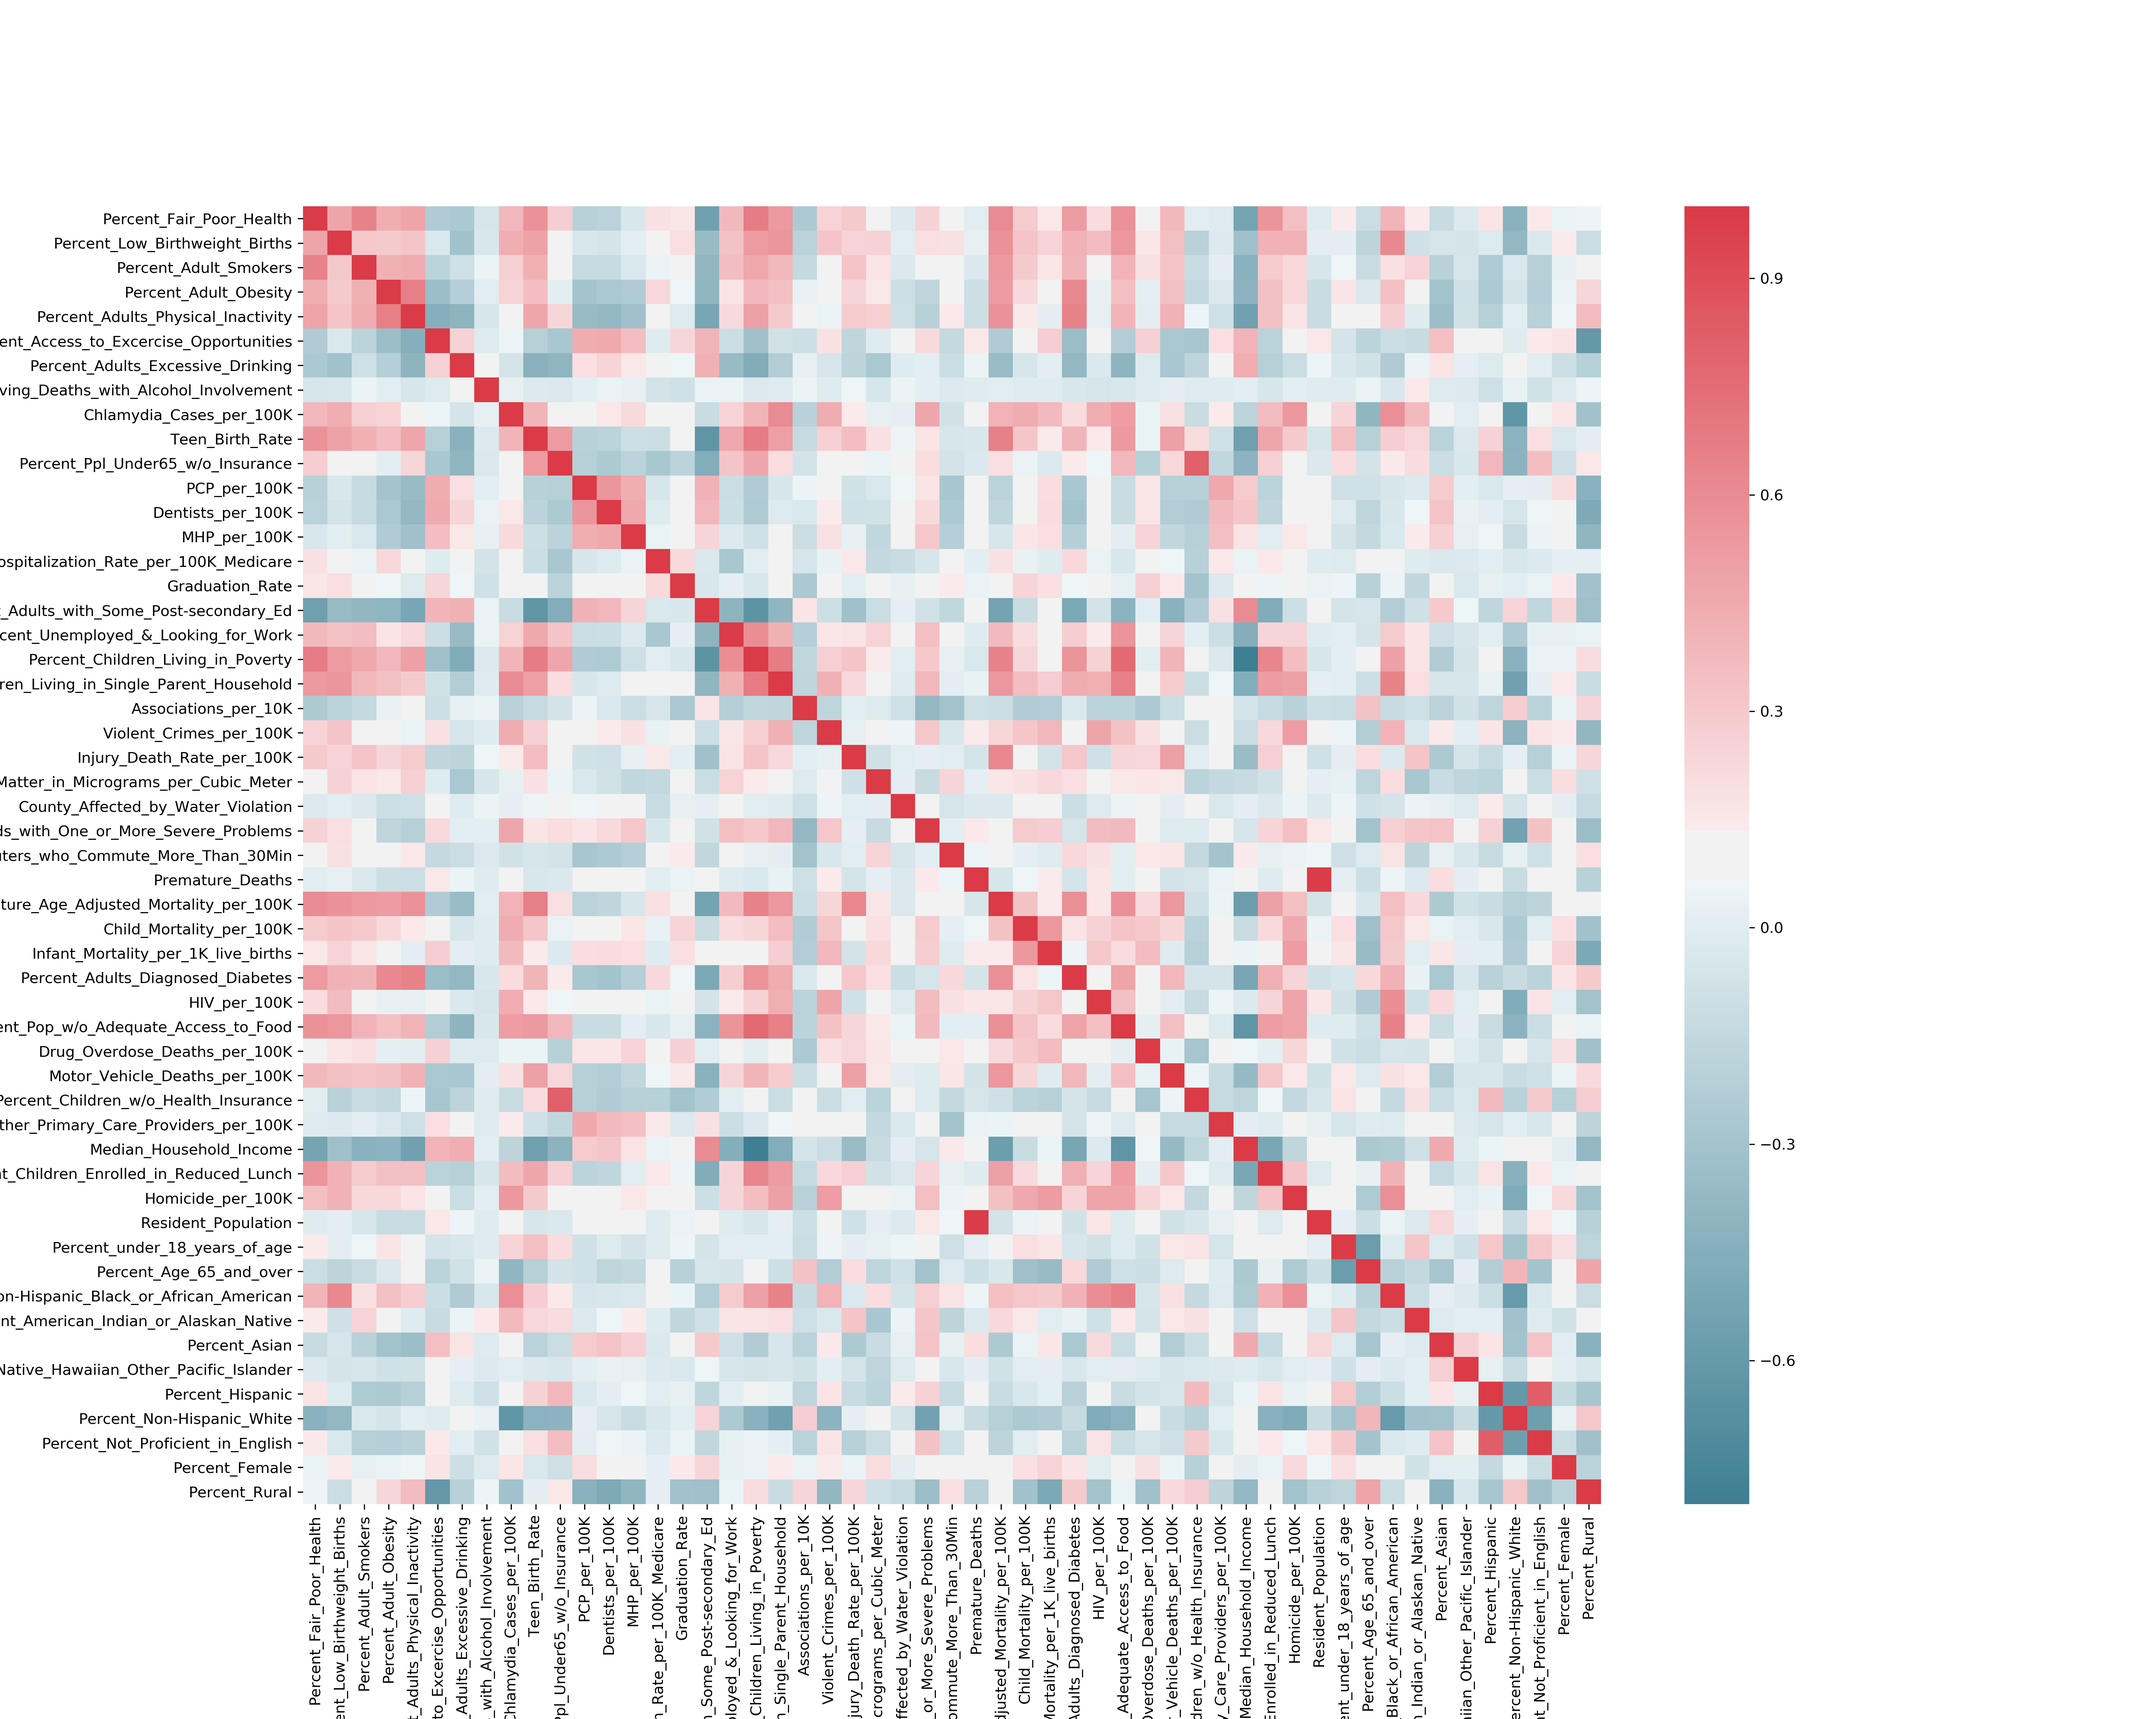
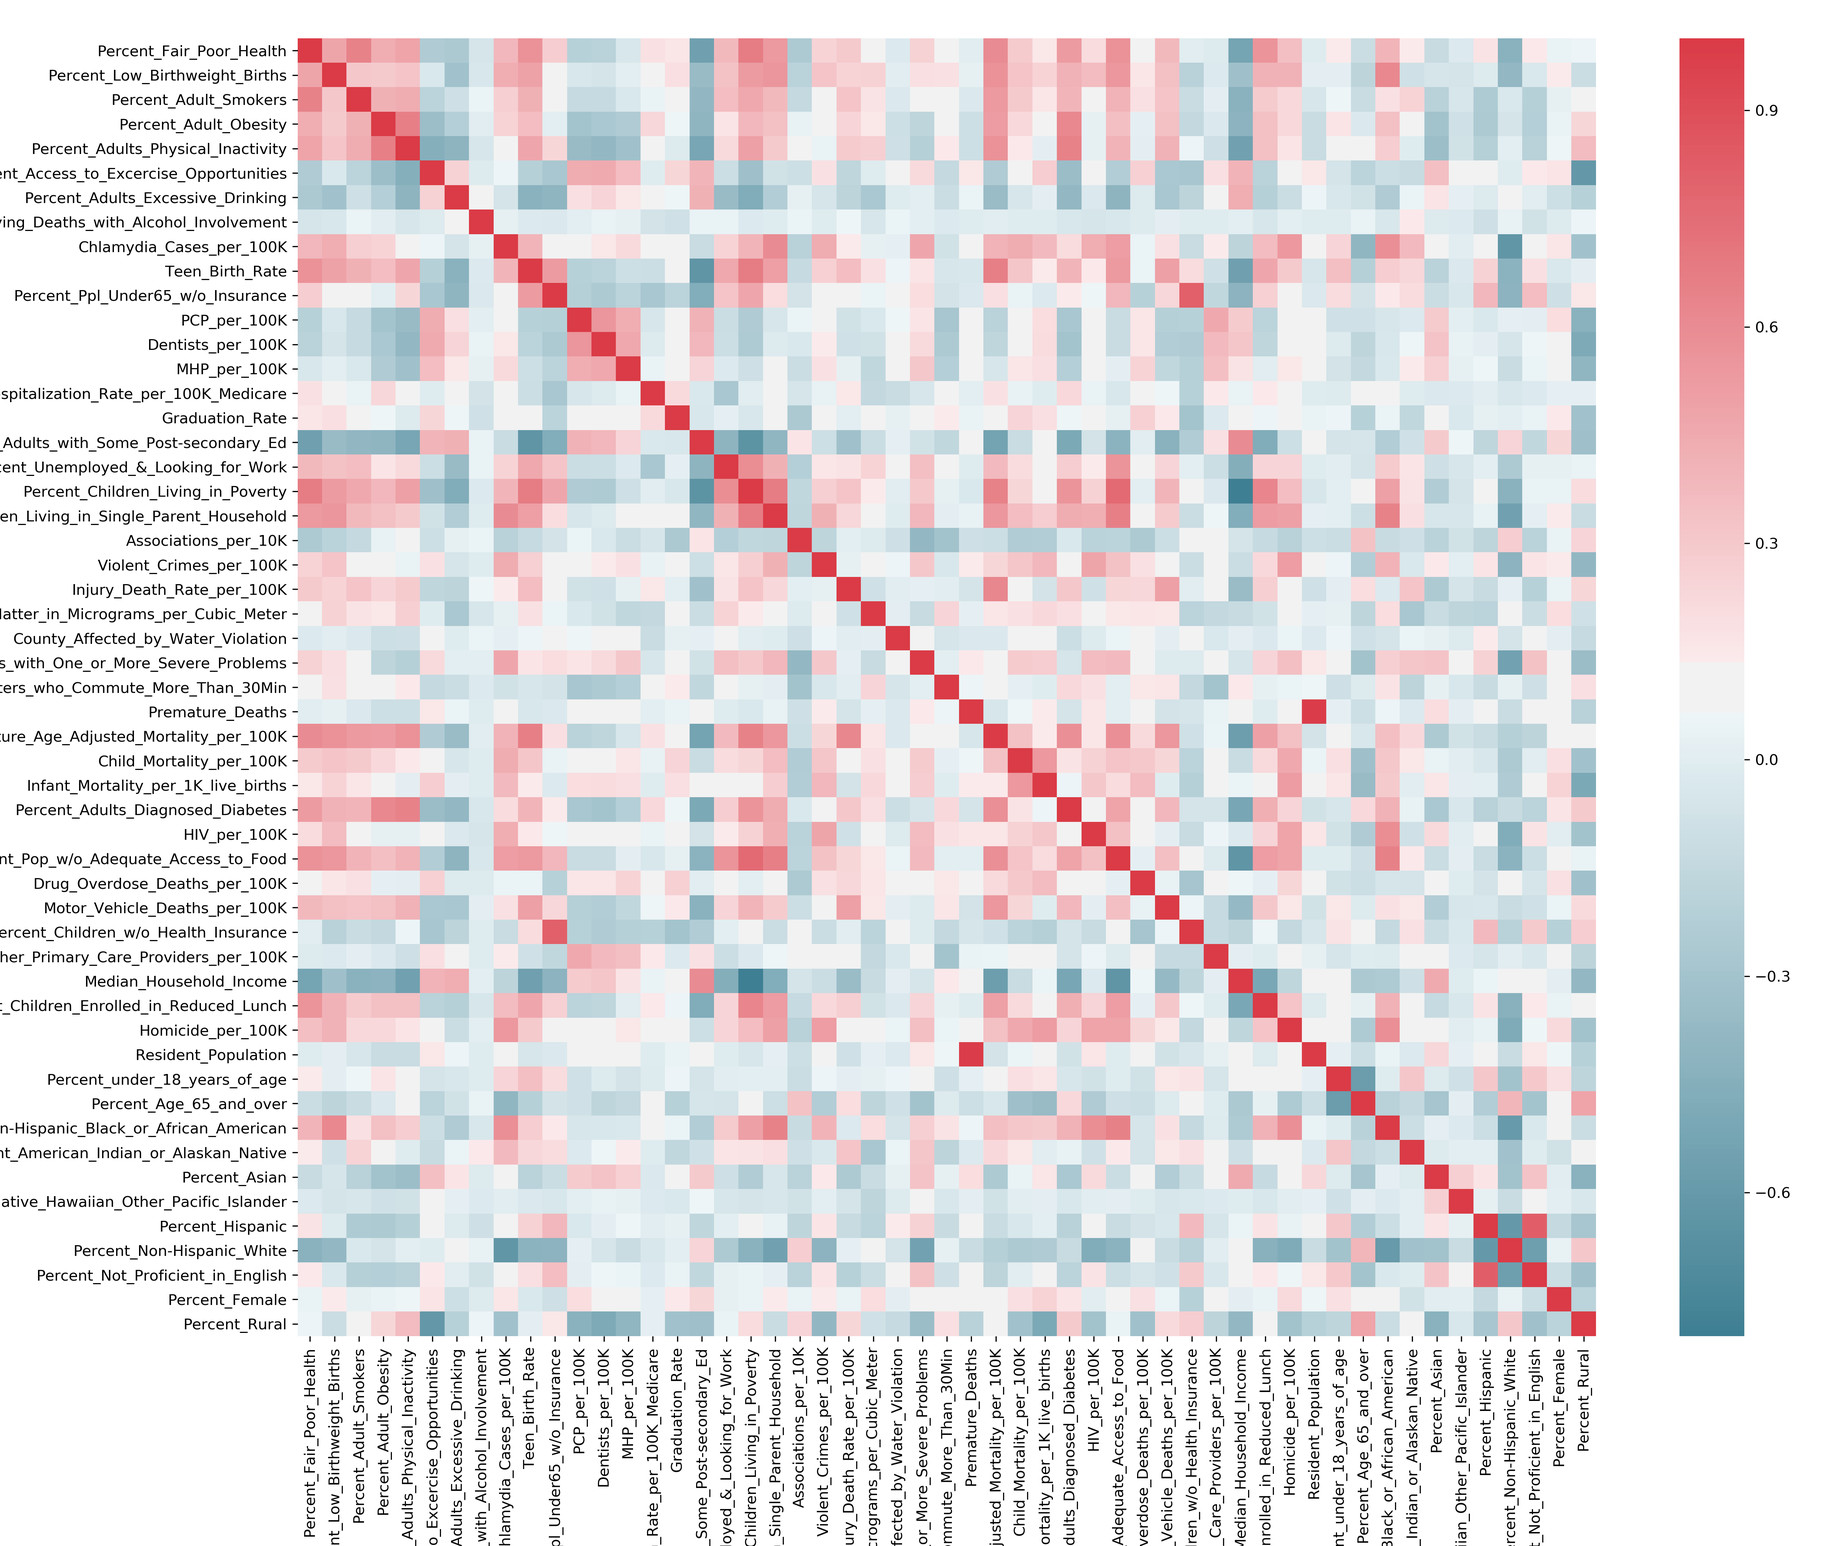
updated layouts for spacing and cleanliness

diff --git a/Flask_SJB/templates/models.html b/Flask_SJB/templates/models.html
@@ -19,7 +19,7 @@
             
             <hr>
         <div class="row">
-          <div class="col-6">
+          <div class="col-md-12">
             <div class="card">
               <h2>Optimized Random Forest Regression Models:</h2>
               <h3>Predicted Fair/Poor Health and Years of Life Lost Per 100K</h3>
@@ -38,7 +38,10 @@
             </div>
 
           </div>
-            <div class="col-6 text-center">
+        </div>
+        <hr>
+          <div class="row">
+            <div class="col-md-12 text-center">
 
                 <div class="panel panel-primary">
                   <div class="panel-heading">
@@ -84,14 +87,15 @@
               </div>
               
 
-            </div><br><br>
+            </div>
+          </div><br><br>
 
-        <div>
-          <hr>
-        </div>
-
-        <div class="row">
-          <div class="col-12">
+            <hr>
+            <div class="row">
+              <div class="col-md-12">
+                  <img src="/static/images/correlation_chart.png" alt="correlation chart" height="1100" width="1100">
+              </div>
+            </div>
             <hr>
             
             <h2>K Nearest Neighbors (KNN) Clustering</h2>

diff --git a/Flask_SJB/templates/index.html b/Flask_SJB/templates/index.html
@@ -33,7 +33,7 @@
     </div>
     <div class="card bg-success">
       <div class="card-body text-center">
-        <p class="card-text">26 Million Receive Care via Health Centers</p>
+        <p class="card-text">26 Million Managed via Health Centers</p>
       </div>
     </div>
   </div>
